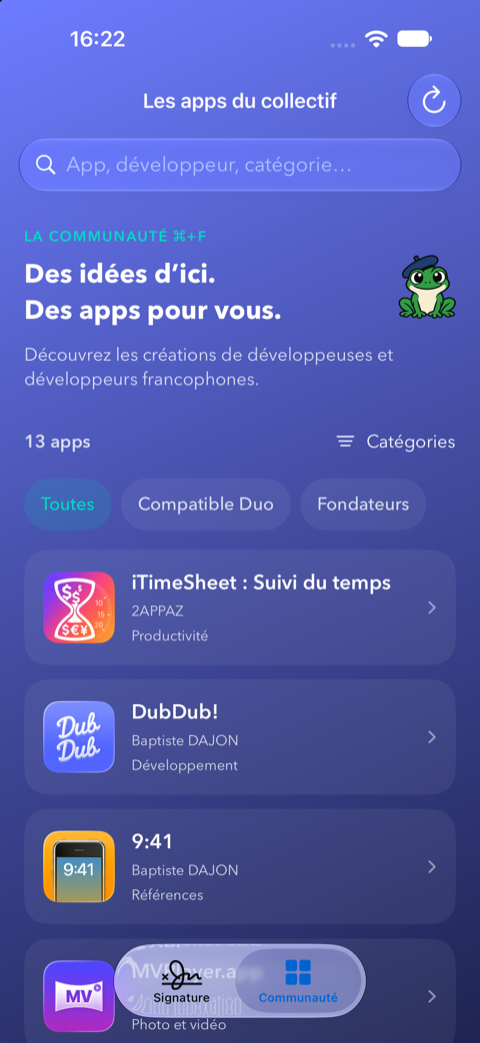
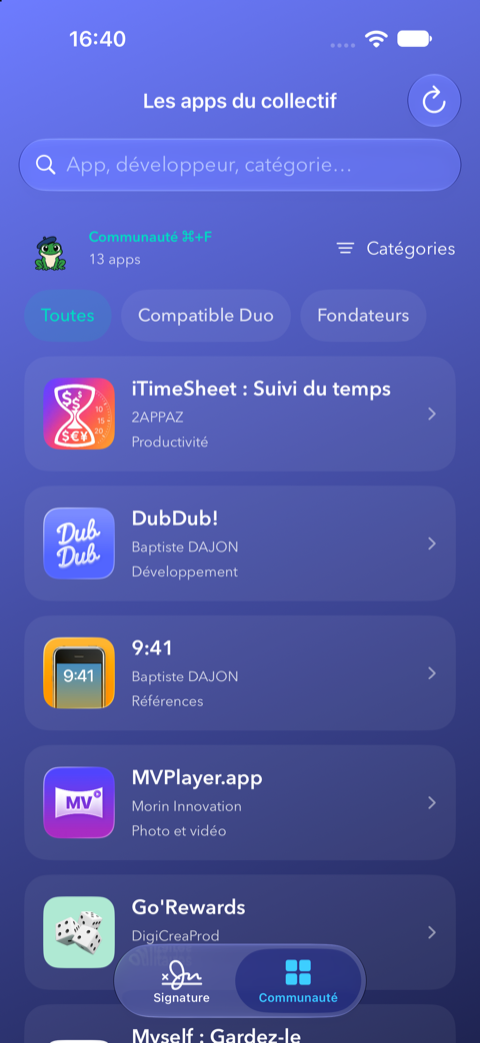
Make the community catalogue header compact

diff --git a/Sources/CroaKit/Community/CroaCommunityApps.swift b/Sources/CroaKit/Community/CroaCommunityApps.swift
@@ -11,6 +11,7 @@ public struct CroaCommunityApps: View {
     @Environment(\.isPresented) private var isPresented
     @Environment(\.colorScheme) private var colorScheme
     @Environment(\.self) private var environment
+    @Environment(\.dynamicTypeSize) private var dynamicTypeSize
 
     public init(excludingAppStoreID: String? = nil, client: CroaCommunityClient = .init(), theme: CroaTheme = .system) {
         self.client = client
@@ -24,12 +25,12 @@ public struct CroaCommunityApps: View {
     public var body: some View {
         NavigationStack {
             ScrollView {
-                VStack(alignment: .leading, spacing: 24) {
-                    introduction
+                VStack(alignment: .leading, spacing: 20) {
                     catalogue
                     submission
                 }
-                .padding(20)
+                .padding(.horizontal, 20)
+                .padding(.vertical, 12)
                 .frame(maxWidth: 900)
                 .frame(maxWidth: .infinity)
             }
@@ -65,25 +66,6 @@ public struct CroaCommunityApps: View {
         #endif
     }
 
-    private var introduction: some View {
-        VStack(alignment: .leading, spacing: 12) {
-            HStack(alignment: .center, spacing: 20) {
-                VStack(alignment: .leading, spacing: 8) {
-                    Text("LA COMMUNAUTÉ ⌘+F")
-                        .font(appearance.font.font(.caption, weight: .semibold)).tracking(1.1).foregroundStyle(accent)
-                    Text("Des idées d’ici.\nDes apps pour vous.")
-                        .font(appearance.font.font(.title2, weight: .bold))
-                        .fixedSize(horizontal: false, vertical: true)
-                }
-                Spacer(minLength: 0)
-                CroaFrog(width: 48)
-            }
-            Text("Découvrez les créations de développeuses et développeurs francophones.")
-                .font(appearance.font.font(.subheadline)).foregroundStyle(appearance.secondary)
-                .fixedSize(horizontal: false, vertical: true)
-        }
-    }
-
     @ViewBuilder private var catalogue: some View {
         if model.apps.isEmpty && model.isLoading {
             ProgressView("Chargement des apps…").frame(maxWidth: .infinity).padding(.vertical, 40)
@@ -101,7 +83,7 @@ public struct CroaCommunityApps: View {
                 Link("Voir sur cmdf.io", destination: CroaCommunityClient.catalogueURL)
             }
         } else if model.hasLoaded {
-            VStack(alignment: .leading, spacing: 16) {
+            VStack(alignment: .leading, spacing: 12) {
                 if model.failed {
                     Label("Actualisation indisponible. Les dernières apps chargées restent affichées.", systemImage: "wifi.exclamationmark")
                         .font(appearance.font.font(.footnote)).foregroundStyle(appearance.secondary)
@@ -131,11 +113,23 @@ public struct CroaCommunityApps: View {
     }
 
     private var filters: some View {
-        VStack(alignment: .leading, spacing: 12) {
-            HStack {
-                Text("\(model.filteredApps.count) app\(model.filteredApps.count == 1 ? "" : "s")")
-                    .font(appearance.font.font(.subheadline, weight: .semibold)).foregroundStyle(appearance.secondary)
-                Spacer()
+        let layout = dynamicTypeSize.isAccessibilitySize
+            ? AnyLayout(VStackLayout(alignment: .leading, spacing: 4))
+            : AnyLayout(HStackLayout(spacing: 10))
+
+        return VStack(alignment: .leading, spacing: 8) {
+            layout {
+                HStack(spacing: 10) {
+                    CroaFrog(width: 26)
+                    VStack(alignment: .leading, spacing: 2) {
+                        Text("Communauté ⌘+F")
+                            .font(appearance.font.font(.caption, weight: .semibold)).foregroundStyle(accent)
+                        Text("\(model.filteredApps.count) app\(model.filteredApps.count == 1 ? "" : "s")")
+                            .font(appearance.font.font(.caption)).foregroundStyle(appearance.secondary)
+                    }
+                    .fixedSize(horizontal: false, vertical: true)
+                }
+                .frame(maxWidth: .infinity, alignment: .leading)
                 Menu {
                     Picker("Catégorie", selection: $model.category) {
                         Text("Toutes les catégories").tag("")

diff --git a/README.md b/README.md
@@ -26,7 +26,7 @@ La grenouille dans l’écran « À propos » de Seekzl. Cliquer sur l’aperçu
 
 ## Installation
 
-Dans Xcode, choisir **File → Add Package Dependencies…**, coller cette URL, sélectionner **Up to Next Major Version** à partir de **1.2.0**, puis ajouter le produit **CroaKit** à la cible de l’app :
+Dans Xcode, choisir **File → Add Package Dependencies…**, coller cette URL, sélectionner **Up to Next Major Version** à partir de **1.2.1**, puis ajouter le produit **CroaKit** à la cible de l’app :
 
 ```text
 https://github.com/cmdfio/CroaKit.git
@@ -36,7 +36,7 @@ Dans un autre package Swift, ajouter la dépendance et le produit à sa cible :
 
 ```swift
 dependencies: [
-    .package(url: "https://github.com/cmdfio/CroaKit.git", from: "1.2.0")
+    .package(url: "https://github.com/cmdfio/CroaKit.git", from: "1.2.1")
 ],
 targets: [
     .target(
@@ -197,6 +197,7 @@ struct AboutView: View {
 `excludingAppStoreID` est facultatif : il permet de masquer l’app hôte dans les suggestions. C’est l’identifiant numérique de sa fiche App Store, pas son bundle ID. `CroaCommunityApps(...)` expose les mêmes paramètres que la méthode.
 
 - Recherche par nom, développeur ou catégorie, sans distinction de casse ou d’accents.
+- En-tête compact : petite grenouille, mention du collectif, compteur et catégories sur une même ligne, au-dessus des filtres.
 - Catégories et filtres du collectif : Compatible Duo, Build Challenge, Fondateurs, lorsqu’ils sont présents.
 - Fiches avec présentation, captures, prix et note lorsqu’ils sont disponibles, puis lien vers l’App Store.
 - Actualisation, états de chargement, catalogue vide et nouvelle tentative après une erreur. Une actualisation échouée conserve les apps déjà affichées.

diff --git a/CHANGELOG.md b/CHANGELOG.md
@@ -1,5 +1,11 @@
 # Changements
 
+## 1.2.1
+
+- En-tête du catalogue compact : suppression du grand slogan et du paragraphe d’introduction.
+- Petite grenouille et mention du collectif intégrées à la ligne du compteur et des catégories.
+- Espacements réduits pour afficher les premières apps plus haut, sans réduire les zones tactiles des filtres.
+
 ## 1.2.0
 
 - Paramètre `theme` commun à la signature, à la galerie et aux fiches d’apps.
